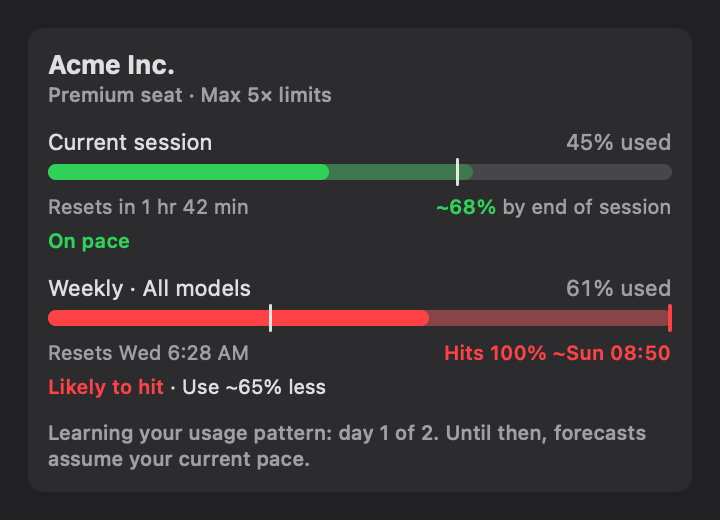
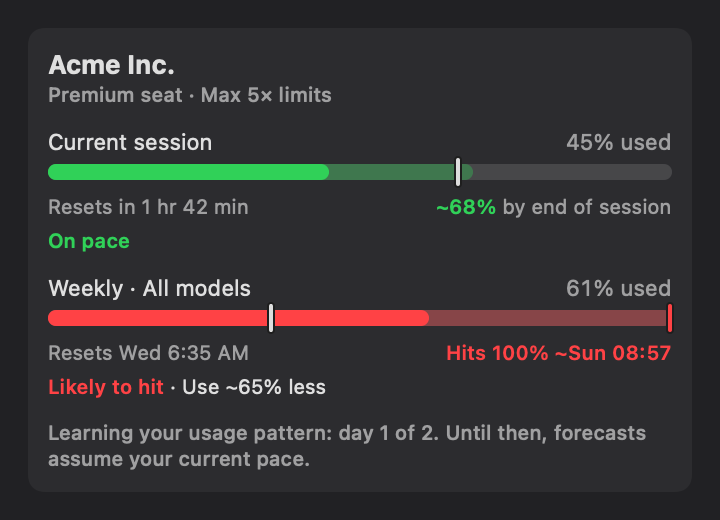
Make the time-passed mark stand out and show forecasts in compact rows

diff --git a/ClaudePulse/PopoverView.swift b/ClaudePulse/PopoverView.swift
@@ -527,8 +527,8 @@ private struct AccountRow: View {
                         MiniGauge(
                             title: UsageFormat.shortTitle(kind),
                             window: window,
-                            color: account.tokenFailure != nil ? .gray
-                                : forecasts[kind].map { UsageFormat.riskColor($0.risk) } ?? UsageFormat.color(window.utilization)
+                            forecast: account.tokenFailure == nil ? forecasts[kind] : nil,
+                            muted: account.tokenFailure != nil
                         )
                     }
                 }
@@ -582,10 +582,11 @@ private struct AccountRow: View {
 private struct MiniGauge: View {
     let title: String
     let window: UsageWindow
-    let color: Color
+    let forecast: UsageForecast?
+    let muted: Bool
 
     var body: some View {
-        VStack(alignment: .leading, spacing: 3) {
+        VStack(alignment: .leading, spacing: 5) {
             HStack(spacing: 4) {
                 Text(title)
                     .foregroundStyle(.secondary)
@@ -594,7 +595,15 @@ private struct MiniGauge: View {
                     .monospacedDigit()
             }
             .font(.caption)
-            UsageBar(fraction: window.utilization / 100, color: color, height: 5)
+            TimelineView(.everyMinute) { context in
+                UsageBar(
+                    fraction: window.utilization / 100,
+                    color: UsageFormat.barColor(window, forecast: forecast, muted: muted),
+                    height: 6,
+                    projectedFraction: forecast.map { $0.projected / 100 },
+                    elapsedFraction: forecast?.elapsedFraction(now: context.date)
+                )
+            }
         }
         .frame(maxWidth: .infinity)
     }
@@ -606,10 +615,6 @@ private struct UsageRow: View {
     var forecast: UsageForecast?
     var muted = false
 
-    private var barColor: Color {
-        if muted { return .gray }
-        return forecast.map { UsageFormat.riskColor($0.risk) } ?? UsageFormat.color(window.utilization)
-    }
 
     var body: some View {
         VStack(alignment: .leading, spacing: 4) {
@@ -627,7 +632,7 @@ private struct UsageRow: View {
                 VStack(alignment: .leading, spacing: 7) {
                     UsageBar(
                         fraction: window.utilization / 100,
-                        color: barColor,
+                        color: UsageFormat.barColor(window, forecast: forecast, muted: muted),
                         height: forecast == nil ? 6 : 8,
                         projectedFraction: forecast.map { $0.projected / 100 },
                         elapsedFraction: forecast?.elapsedFraction(now: context.date)

diff --git a/Shared/UsageBar.swift b/Shared/UsageBar.swift
@@ -11,6 +11,7 @@ struct UsageBar: View {
     var elapsedFraction: Double? = nil
 
     private static let markOverhang: CGFloat = 3
+    private static let markHalo: CGFloat = 1
 
     var body: some View {
         GeometryReader { geo in
@@ -34,7 +35,7 @@ struct UsageBar: View {
             }
             .overlay(alignment: .leading) {
                 if let elapsedFraction {
-                    mark(color: .primary, width: 1.5, at: clamped(elapsedFraction) * width - 0.75)
+                    mark(color: .primary, width: 2, at: clamped(elapsedFraction) * width - 1)
                 }
             }
         }
@@ -49,6 +50,11 @@ struct UsageBar: View {
         RoundedRectangle(cornerRadius: width / 2)
             .fill(color)
             .frame(width: width, height: height + 2 * Self.markOverhang)
-            .offset(x: x)
+            .padding(Self.markHalo)
+            .background(
+                RoundedRectangle(cornerRadius: width / 2 + Self.markHalo)
+                    .fill(Color(nsColor: .windowBackgroundColor))
+            )
+            .offset(x: x - Self.markHalo)
     }
 }

diff --git a/Shared/Formatting.swift b/Shared/Formatting.swift
@@ -63,6 +63,11 @@ extension UsageFormat {
         }
     }
 
+    static func barColor(_ window: UsageWindow, forecast: UsageForecast?, muted: Bool) -> Color {
+        if muted { return .gray }
+        return forecast.map { riskColor($0.risk) } ?? color(window.utilization)
+    }
+
     static func riskLabel(_ risk: ForecastRisk) -> String {
         switch risk {
         case .onPace: return "On pace"
